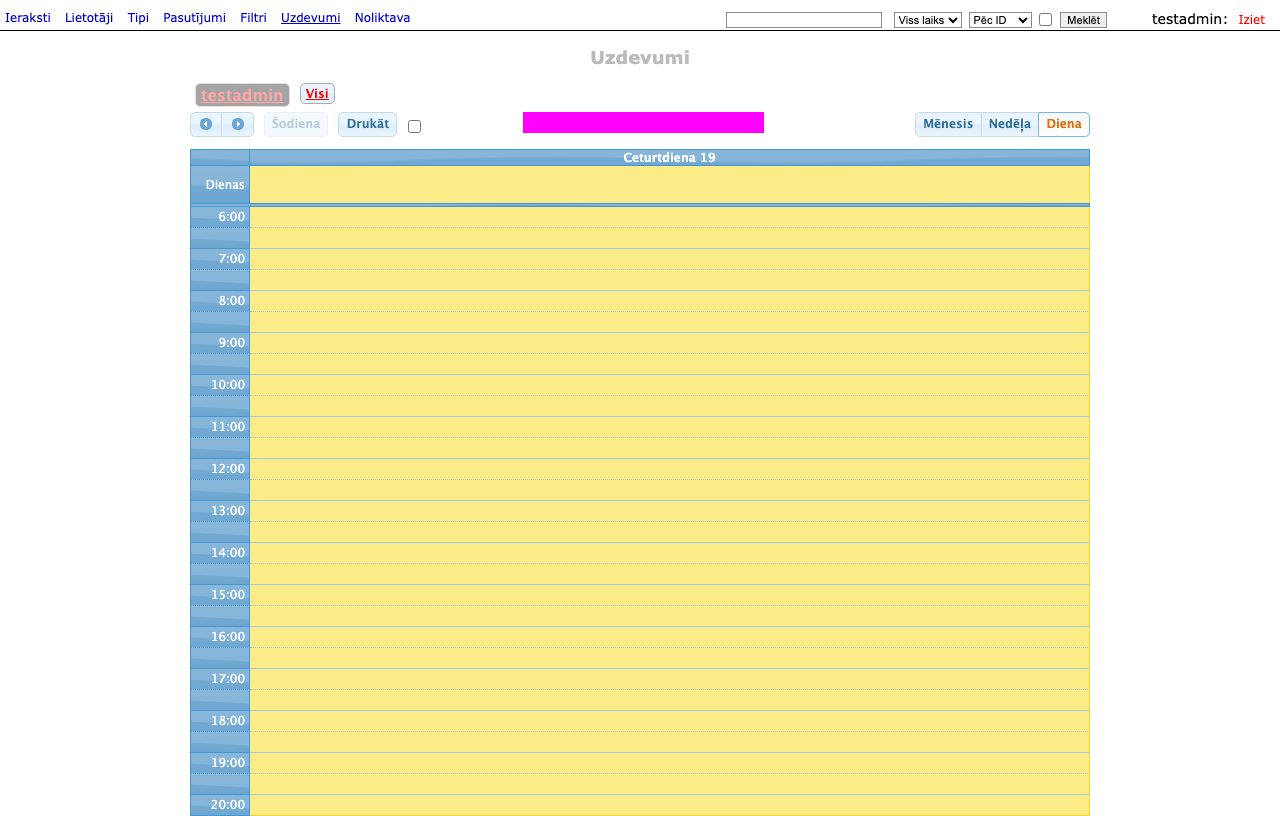
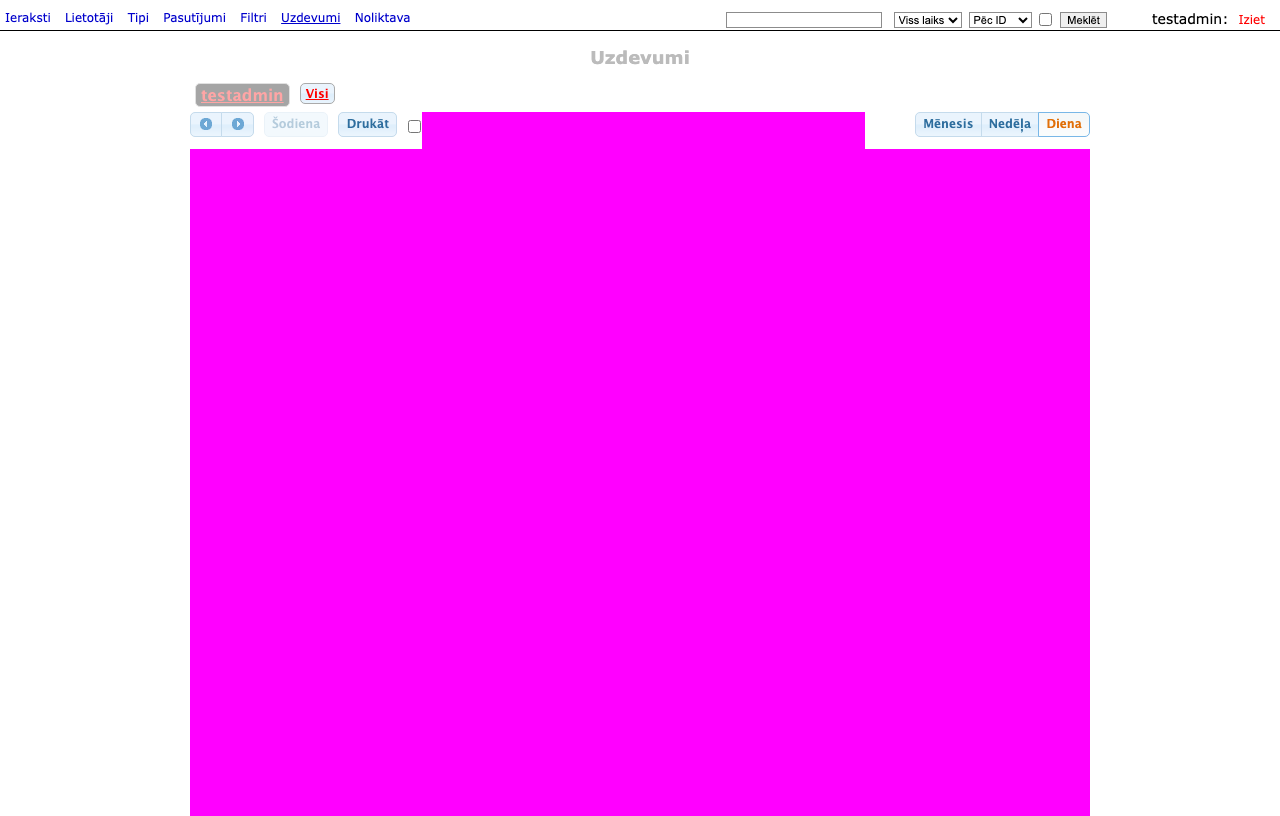
fix: stabilize calendar screenshot masks
Use fixed-width parent elements instead of inline/per-cell selectors
so masks don't shift with day name length or today's column position.

- .fc-header-title h2 → td.fc-header-center (fixed table cell width)
- .fc-state-highlight → .fc-content (masks entire calendar body)

diff --git a/e2e/utils/screenshot.ts b/e2e/utils/screenshot.ts
@@ -42,8 +42,9 @@ export function standardMasks(page: Page): Locator[] {
     page.locator('input[name="DateTo"]'),
     // DataList rows: Date + AddDate cell (seeded with NOW(), changes every run)
     page.locator("#DataList tr.Data td:nth-child(3)"),
-    // Task/calendar page: FullCalendar month+year title and today-highlighted cell
-    page.locator(".fc-header-title h2"),
-    page.locator(".fc-state-highlight"),
+    // Task/calendar page: FullCalendar month+year title, today-highlighted cell,
+    // and agenda view day column headers (contain date-dependent weekday+day text)
+    page.locator("td.fc-header-center"),
+    page.locator(".fc-content"),
   ];
 }
